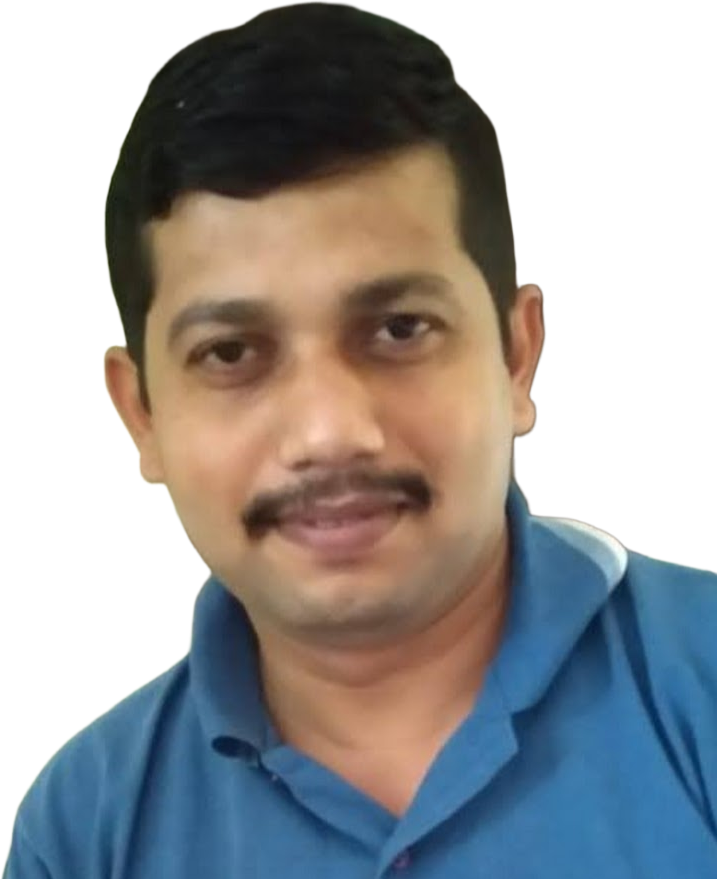
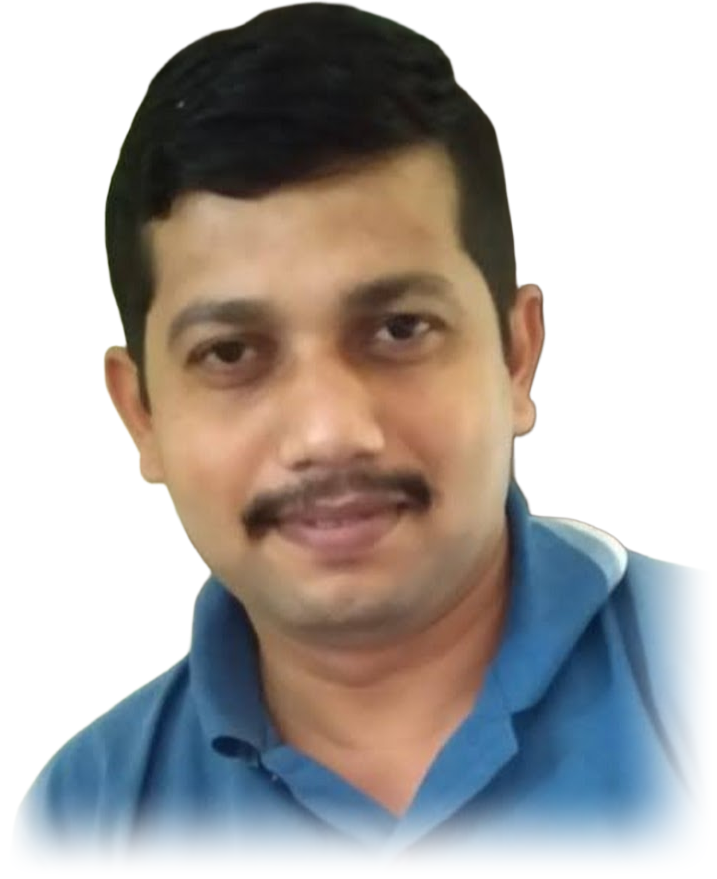
Smoothly feather cropped right edge of mentor portrait and add multi-directional soft gradient shades

Changed region(s): [[0.0, 0.6143, 1.0, 1.0]]

diff --git a/src/components/home/MentorsSection.js b/src/components/home/MentorsSection.js
@@ -76,8 +76,10 @@ export default function MentorsSection() {
                       fill
                       className="object-contain object-bottom filter contrast-[1.04] group-hover:scale-105 transition-transform duration-500"
                     />
-                    {/* Soft gradient shade dissolving smoothly into card background */}
-                    <div className="absolute inset-x-0 bottom-0 h-8 sm:h-10 bg-gradient-to-t from-[#fdfbf7] via-[#fdfbf7]/50 to-transparent pointer-events-none" />
+                    {/* Soft multi-directional gradient shades dissolving smoothly into card background */}
+                    <div className="absolute inset-x-0 bottom-0 h-9 sm:h-12 bg-gradient-to-t from-[#fdfbf7] via-[#fdfbf7]/70 to-transparent pointer-events-none" />
+                    <div className="absolute inset-y-0 right-0 w-8 sm:w-12 bg-gradient-to-l from-[#fdfbf7] via-[#fdfbf7]/60 to-transparent pointer-events-none" />
+                    <div className="absolute inset-y-0 left-0 w-6 sm:w-8 bg-gradient-to-r from-[#fdfbf7] via-[#fdfbf7]/50 to-transparent pointer-events-none" />
                   </div>
                 ) : (
                   /* Dignified Academic Monogram */

diff --git a/src/components/home/SpeakersSection.js b/src/components/home/SpeakersSection.js
@@ -209,6 +209,9 @@ export default function SpeakersSection() {
                             className="object-contain object-bottom filter contrast-[1.03] group-hover:scale-105 transition-transform duration-500"
                             sizes="(max-width: 640px) 35vw, (max-width: 1024px) 25vw, 15vw"
                           />
+                          {/* Soft dissolves into card background */}
+                          <div className="absolute inset-x-0 bottom-0 h-6 bg-gradient-to-t from-[#fdfbf7] via-[#fdfbf7]/60 to-transparent pointer-events-none" />
+                          <div className="absolute inset-y-0 right-0 w-4 bg-gradient-to-l from-[#fdfbf7] to-transparent pointer-events-none" />
                         </div>
                       ) : (
                         <div className="w-10 h-10 rounded-full bg-[#ebe2d1] flex items-center justify-center text-[#7a5232] mb-2 border border-[#dccdb2]">
